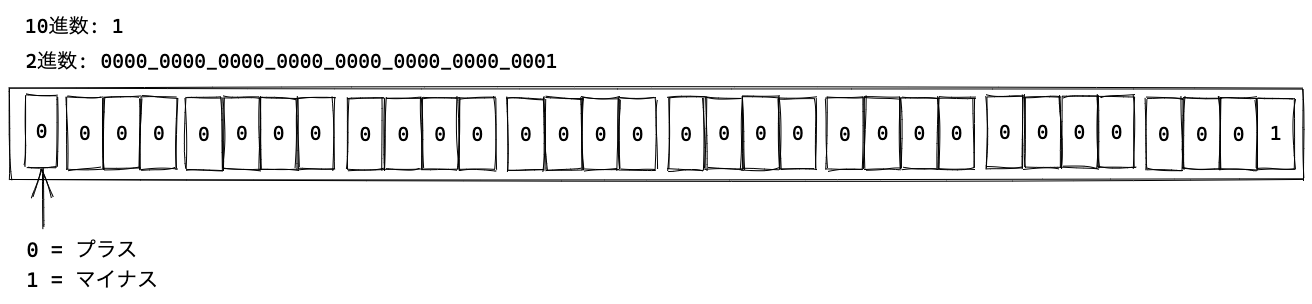
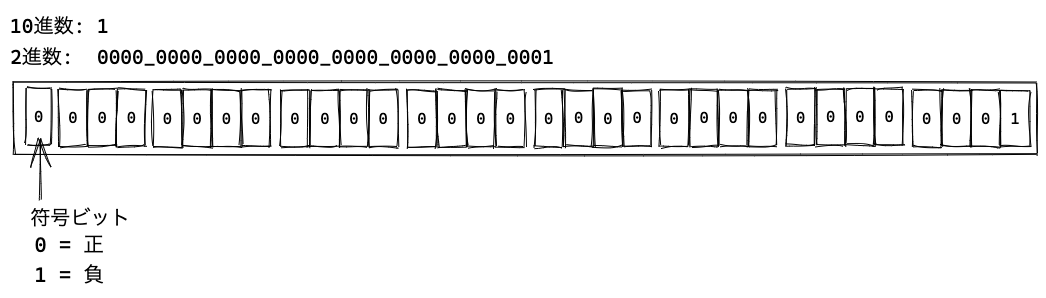
chore: update image

diff --git a/source/basic/operator/README.md b/source/basic/operator/README.md
@@ -487,50 +487,49 @@ console.log(43 <= 42); // => false
 
 ## ビット演算子 {#bit-operator}
 
-ビット演算子では、オペランドである数値を符号付き32bit整数（`0`と`1`からなる32個のビットの集合）として扱います。
+ビット演算子では、オペランドである数値を符号付き32ビット整数（`0`と`1`からなる32個のビットの集合）として扱います。
 
-たとえば、`1`という数値は符号付き32bit整数のビットでは、`00000000000000000000000000000001` として表現されます。
-わかりやすく4bitごとに区切ると `0000_0000_0000_0000_0000_0000_0000_0001` のような32bitの集合となります。
-符号付き32bit整数では、先頭の最上位bitは符号を表し、`0`の場合は正の値、`1`の場合は負の値であることを示しています。
+たとえば、`1`という数値は符号付き32ビット整数のビットでは、`00000000000000000000000000000001` として表現されます。
+わかりやすく4ビットごとに区切ると `0000_0000_0000_0000_0000_0000_0000_0001` のような32ビットの集合となります。
+符号付き32ビット整数では、先頭の最上位ビット（一番左のビット）は符号を表し、`0`の場合は正の値、`1`の場合は負の値であることを示しています。
 
 ![1の符号付き32bit整数での表現](./img/0000_0000_0000_0000_0000_0000_0000_0001.png)
 
-符号付き32bit整数では負の数値は、2の補数形式という形式で表現されます。
-2の補数とは、それぞれのビットを反転して1bitを足した値となります。
+符号付き32ビット整数では負の数値は、2の補数形式という形式で表現されます。
+2の補数とは、それぞれのビットを反転して1ビットを足した値となります。
 
-たとえば、`1` という数値に対して `-1` という数値を符号付き32bit整数で表現してみます。
+たとえば、`1` という数値に対して `-1` という数値を符号付き32ビット整数は次のように2の補数で求められます。
 
-- 10進数の`1`は、符号付き32bit整数では`0000_0000_0000_0000_0000_0000_0000_0001`となる
-- `0000_0000_0000_0000_0000_0000_0000_0001` の各bitを反転すると `1111_1111_1111_1111_1111_1111_1111_1110` となる
-- これに1bitを足すと `1111_1111_1111_1111_1111_1111_1111_1111` となる
+- 10進数の`1`は、符号付き32ビット整数では`0000_0000_0000_0000_0000_0000_0000_0001`となる
+- `0000_0000_0000_0000_0000_0000_0000_0001` の各ビットを反転すると `1111_1111_1111_1111_1111_1111_1111_1110` となる
+- これに1ビットを足すと `1111_1111_1111_1111_1111_1111_1111_1111` となる
 
-これによって、`-1`は符号付き32bit整数では `1111_1111_1111_1111_1111_1111_1111_1111` となります。
+これによって、`-1`は符号付き32ビット整数では `1111_1111_1111_1111_1111_1111_1111_1111` となります。
 
-![-1の符号付き32bit整数での表現](./img/1111_1111_1111_1111_1111_1111_1111_1111.png)
+![-1の符号付き32ビット整数での表現](./img/1111_1111_1111_1111_1111_1111_1111_1111.png)
 
 <!-- textlint-disable ja-technical-writing/sentence-length -->
 
-そのため符号付き32bit整数で表現できる数値の範囲は`-2147483648`（`1111_1111_1111_1111_1111_1111_1111_1111`）から`2147483647`（`0111_1111_1111_1111_1111_1111_1111_1111` ）までとなります。
-32bitを超える数値については、32bitをはみ出る最上位のbitが捨てられます。
+そのため符号付き32ビット整数で表現できる数値の範囲は`-2147483648`（`1111_1111_1111_1111_1111_1111_1111_1111`）から`2147483647`（`0111_1111_1111_1111_1111_1111_1111_1111` ）までとなります。
+32ビットを超える数値については、32ビットをはみ出るビットが最上位（一番左）から順番に捨てられます。
 
 <!-- textlint-enable ja-technical-writing/sentence-length -->
-
-これから見ていくビット演算子はオペランドを符号付き32bit整数として扱い、その結果を10進数の数値として返します。
+これから見ていくビット演算子はオペランドを符号付き32ビット整数として扱い、その演算結果を10進数の数値として返します。
 
 ### ビット論理積（`&`） {#bit-and}
 
-論理積演算子（`&`）はビットごとの**AND**演算した結果を返します。
+ビット論理積演算子（`&`）はビットごとの**AND**演算した結果を返します。
 AND演算では、オペランドの各ビットがどちらも`1`の場合は`1`となり、それ以外の場合は`0`となります。
 
 次のコードでは、10進数の`15`と`9`をAND演算しています。
-`15`は、符号付き32bit整数では`0000_0000_0000_0000_0000_0000_0000_1111`となります。
-`9`は、符号付き32bit整数では`0000_0000_0000_0000_0000_0000_0000_1001`となります。
-これらをAND演算した結果は`0000_0000_0000_0000_0000_0000_0000_1001`となり、ビット演算子は10進数の値である`9`を返します。
+`15`は、符号付き32ビット整数では`0000_0000_0000_0000_0000_0000_0000_1111`となります。
+`9`は、符号付き32ビット整数では`0000_0000_0000_0000_0000_0000_0000_1001`となります。
+これらをAND演算した結果は`0000_0000_0000_0000_0000_0000_0000_1001`となり、10進数の値である`9`を返します。
 
 {{book.console}}
 ```js
 console.log(15     & 9);      // => 9
-// 各ビット同士をAND演算する
+// 各ビット同士をAND演算する（上位の`0`は省略）
 // 1111
 // 1001
 // ----
@@ -540,13 +539,13 @@ console.log(0b1111 & 0b1001); // => 0b1001
 
 ### ビット論理和（`|`） {#bit-or}
 
-論理和演算子（`|`）はビットごとの**OR**演算した結果を返します。
+ビット論理和演算子（`|`）はビットごとの**OR**演算した結果を返します。
 OR演算では、オペランドの各ビットがどちらか片方でも`1`の場合は`1`となり、両方とも`0`の場合は`0`となります。
 
 {{book.console}}
 ```js
 console.log(15     | 9);      // => 15
-// 各ビット同士をOR演算する
+// 各ビット同士をOR演算する（上位の`0`は省略）
 // 1111
 // 1001
 // ----
@@ -556,13 +555,13 @@ console.log(0b1111 | 0b1001); // => 0b1111
 
 ### ビット排他的論理和（`^`） {#bit-xor}
 
-排他的論理和演算子（`^`）はビットごとの**XOR**演算した結果を返します。
-XOR演算では、オペランドの各ビットがどちらか片方が`1`でもう片方が`0`の場合に`1`となり、それ以外の場合は`0`となります。
+ビット排他的論理和演算子（`^`）はビットごとの**XOR**演算した結果を返します。
+XOR演算では、オペランドのビットが異なるなら`1`、両方とも同じなら`0`となります。
 
 {{book.console}}
 ```js
 console.log(15     ^ 9);      // => 6
-// 各ビット同士をXOR演算する
+// 各ビット同士をXOR演算する（上位の`0`は省略）
 // 1111
 // 1001
 // ----
